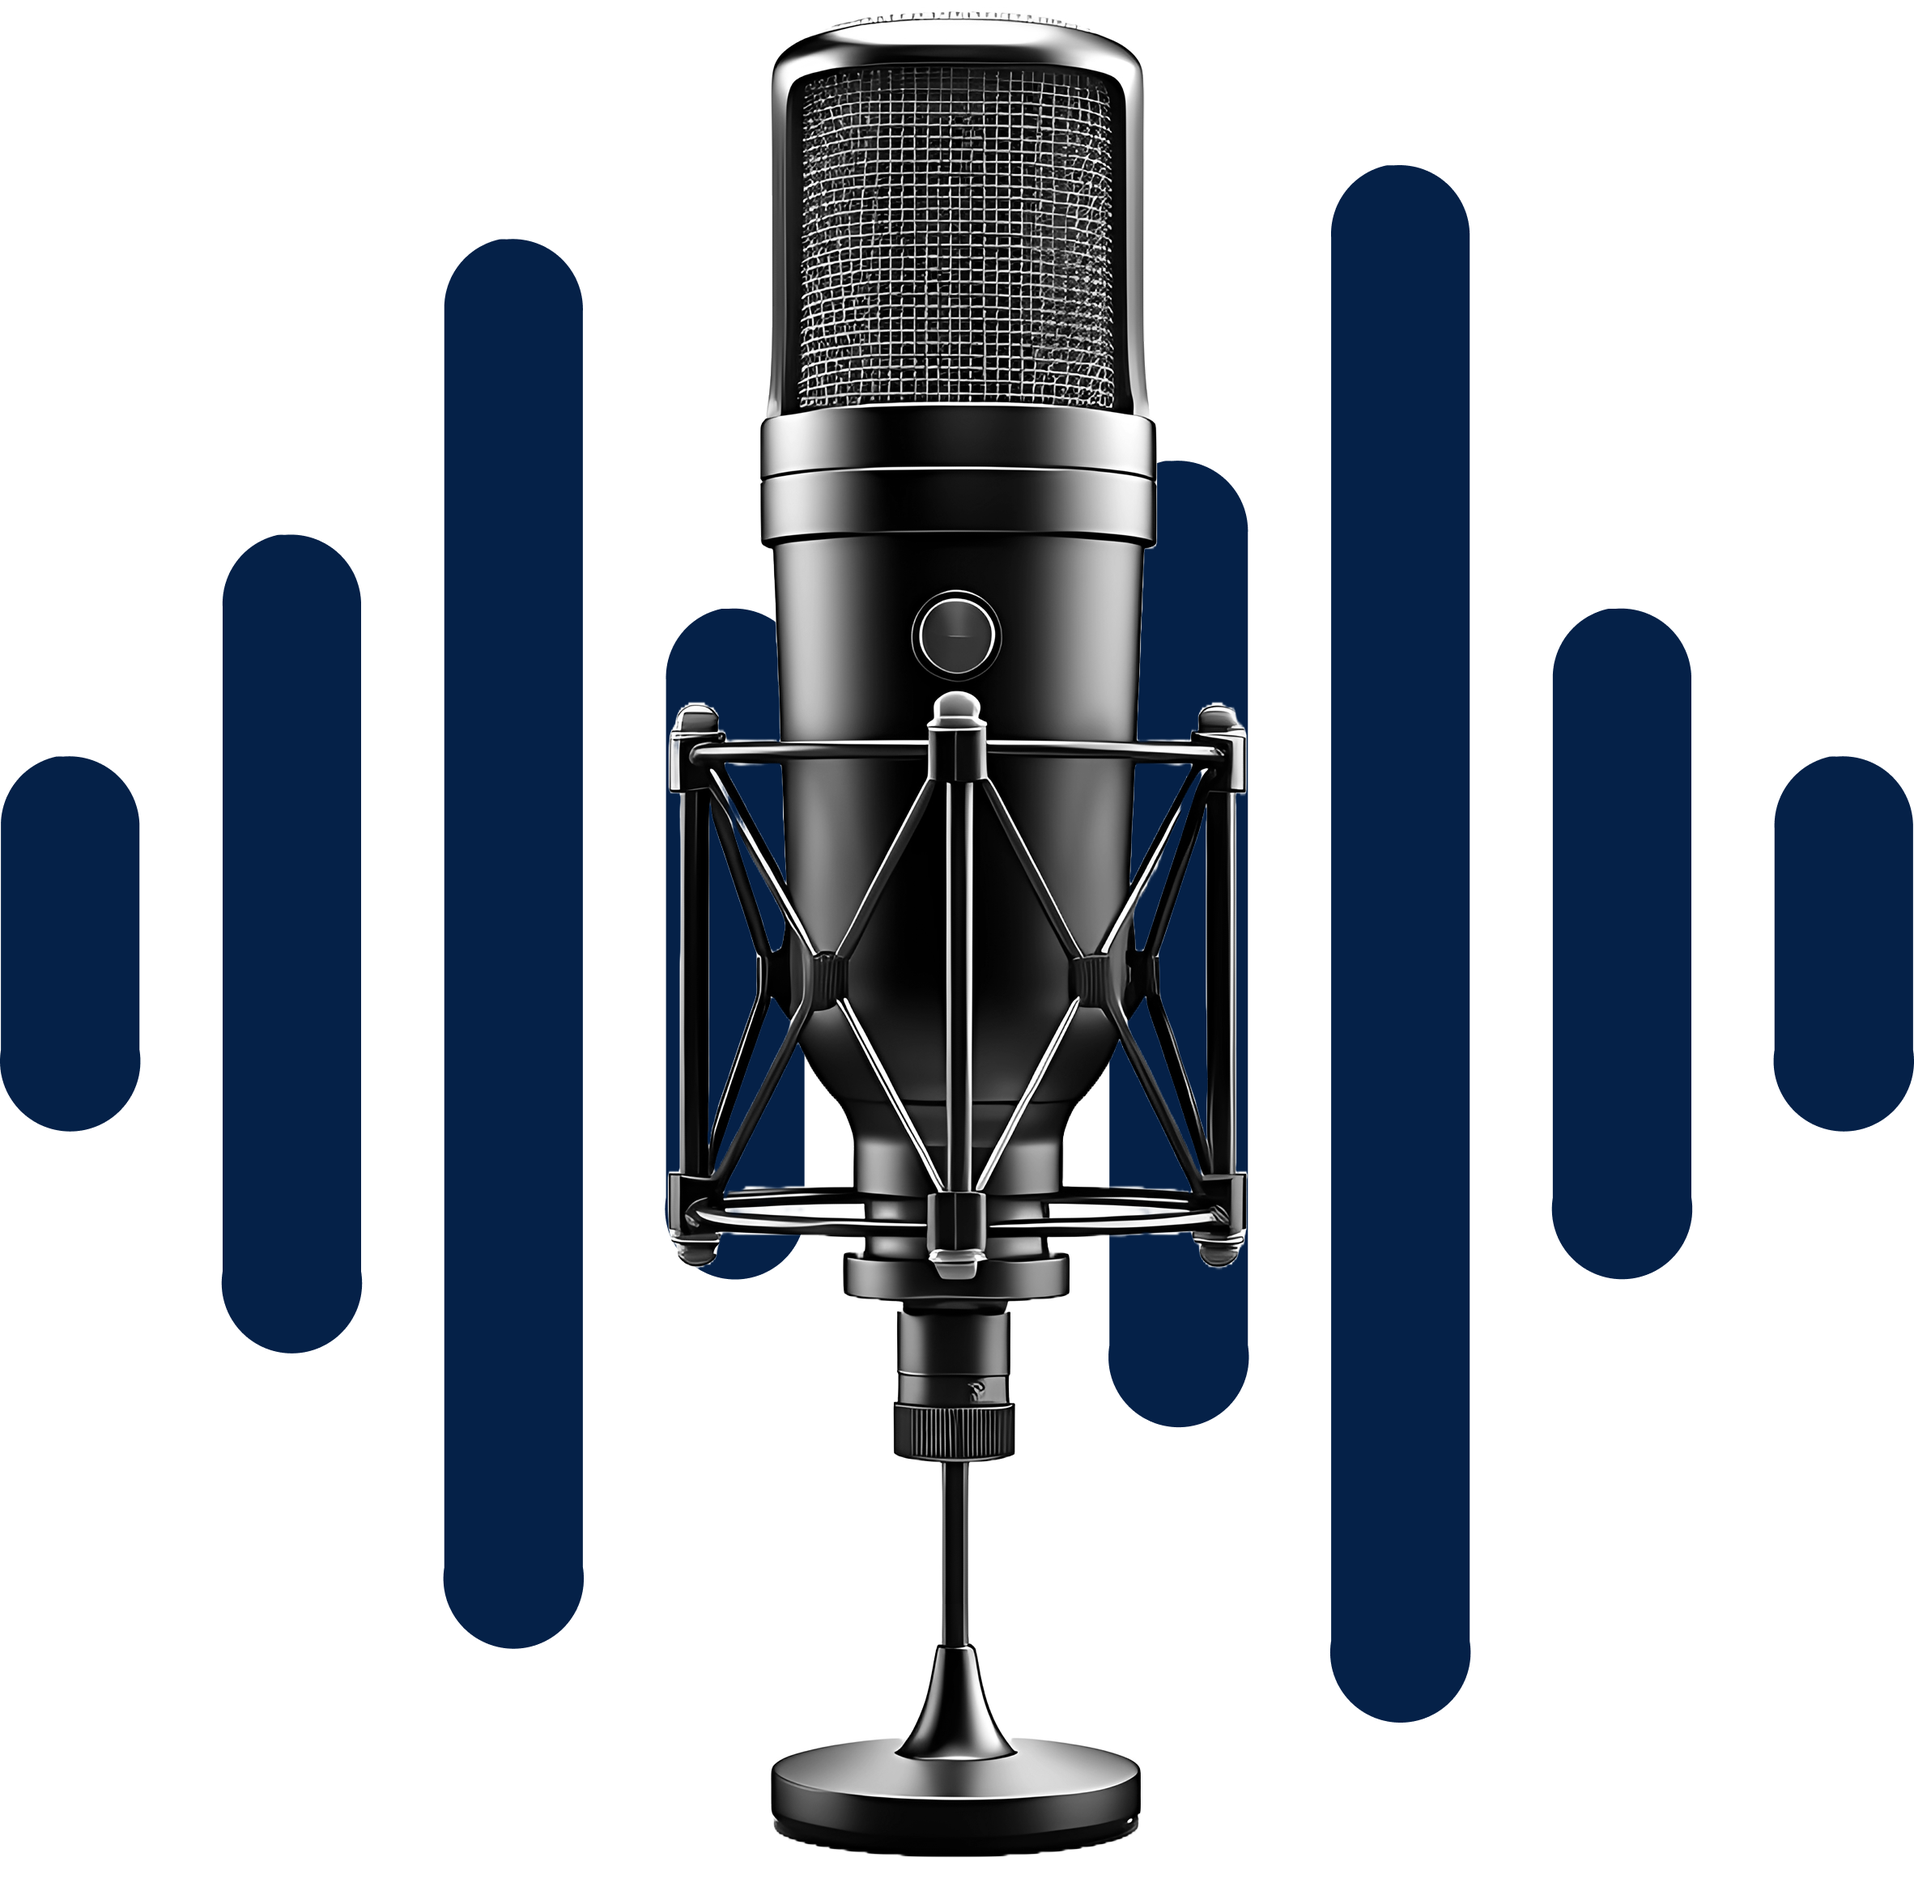
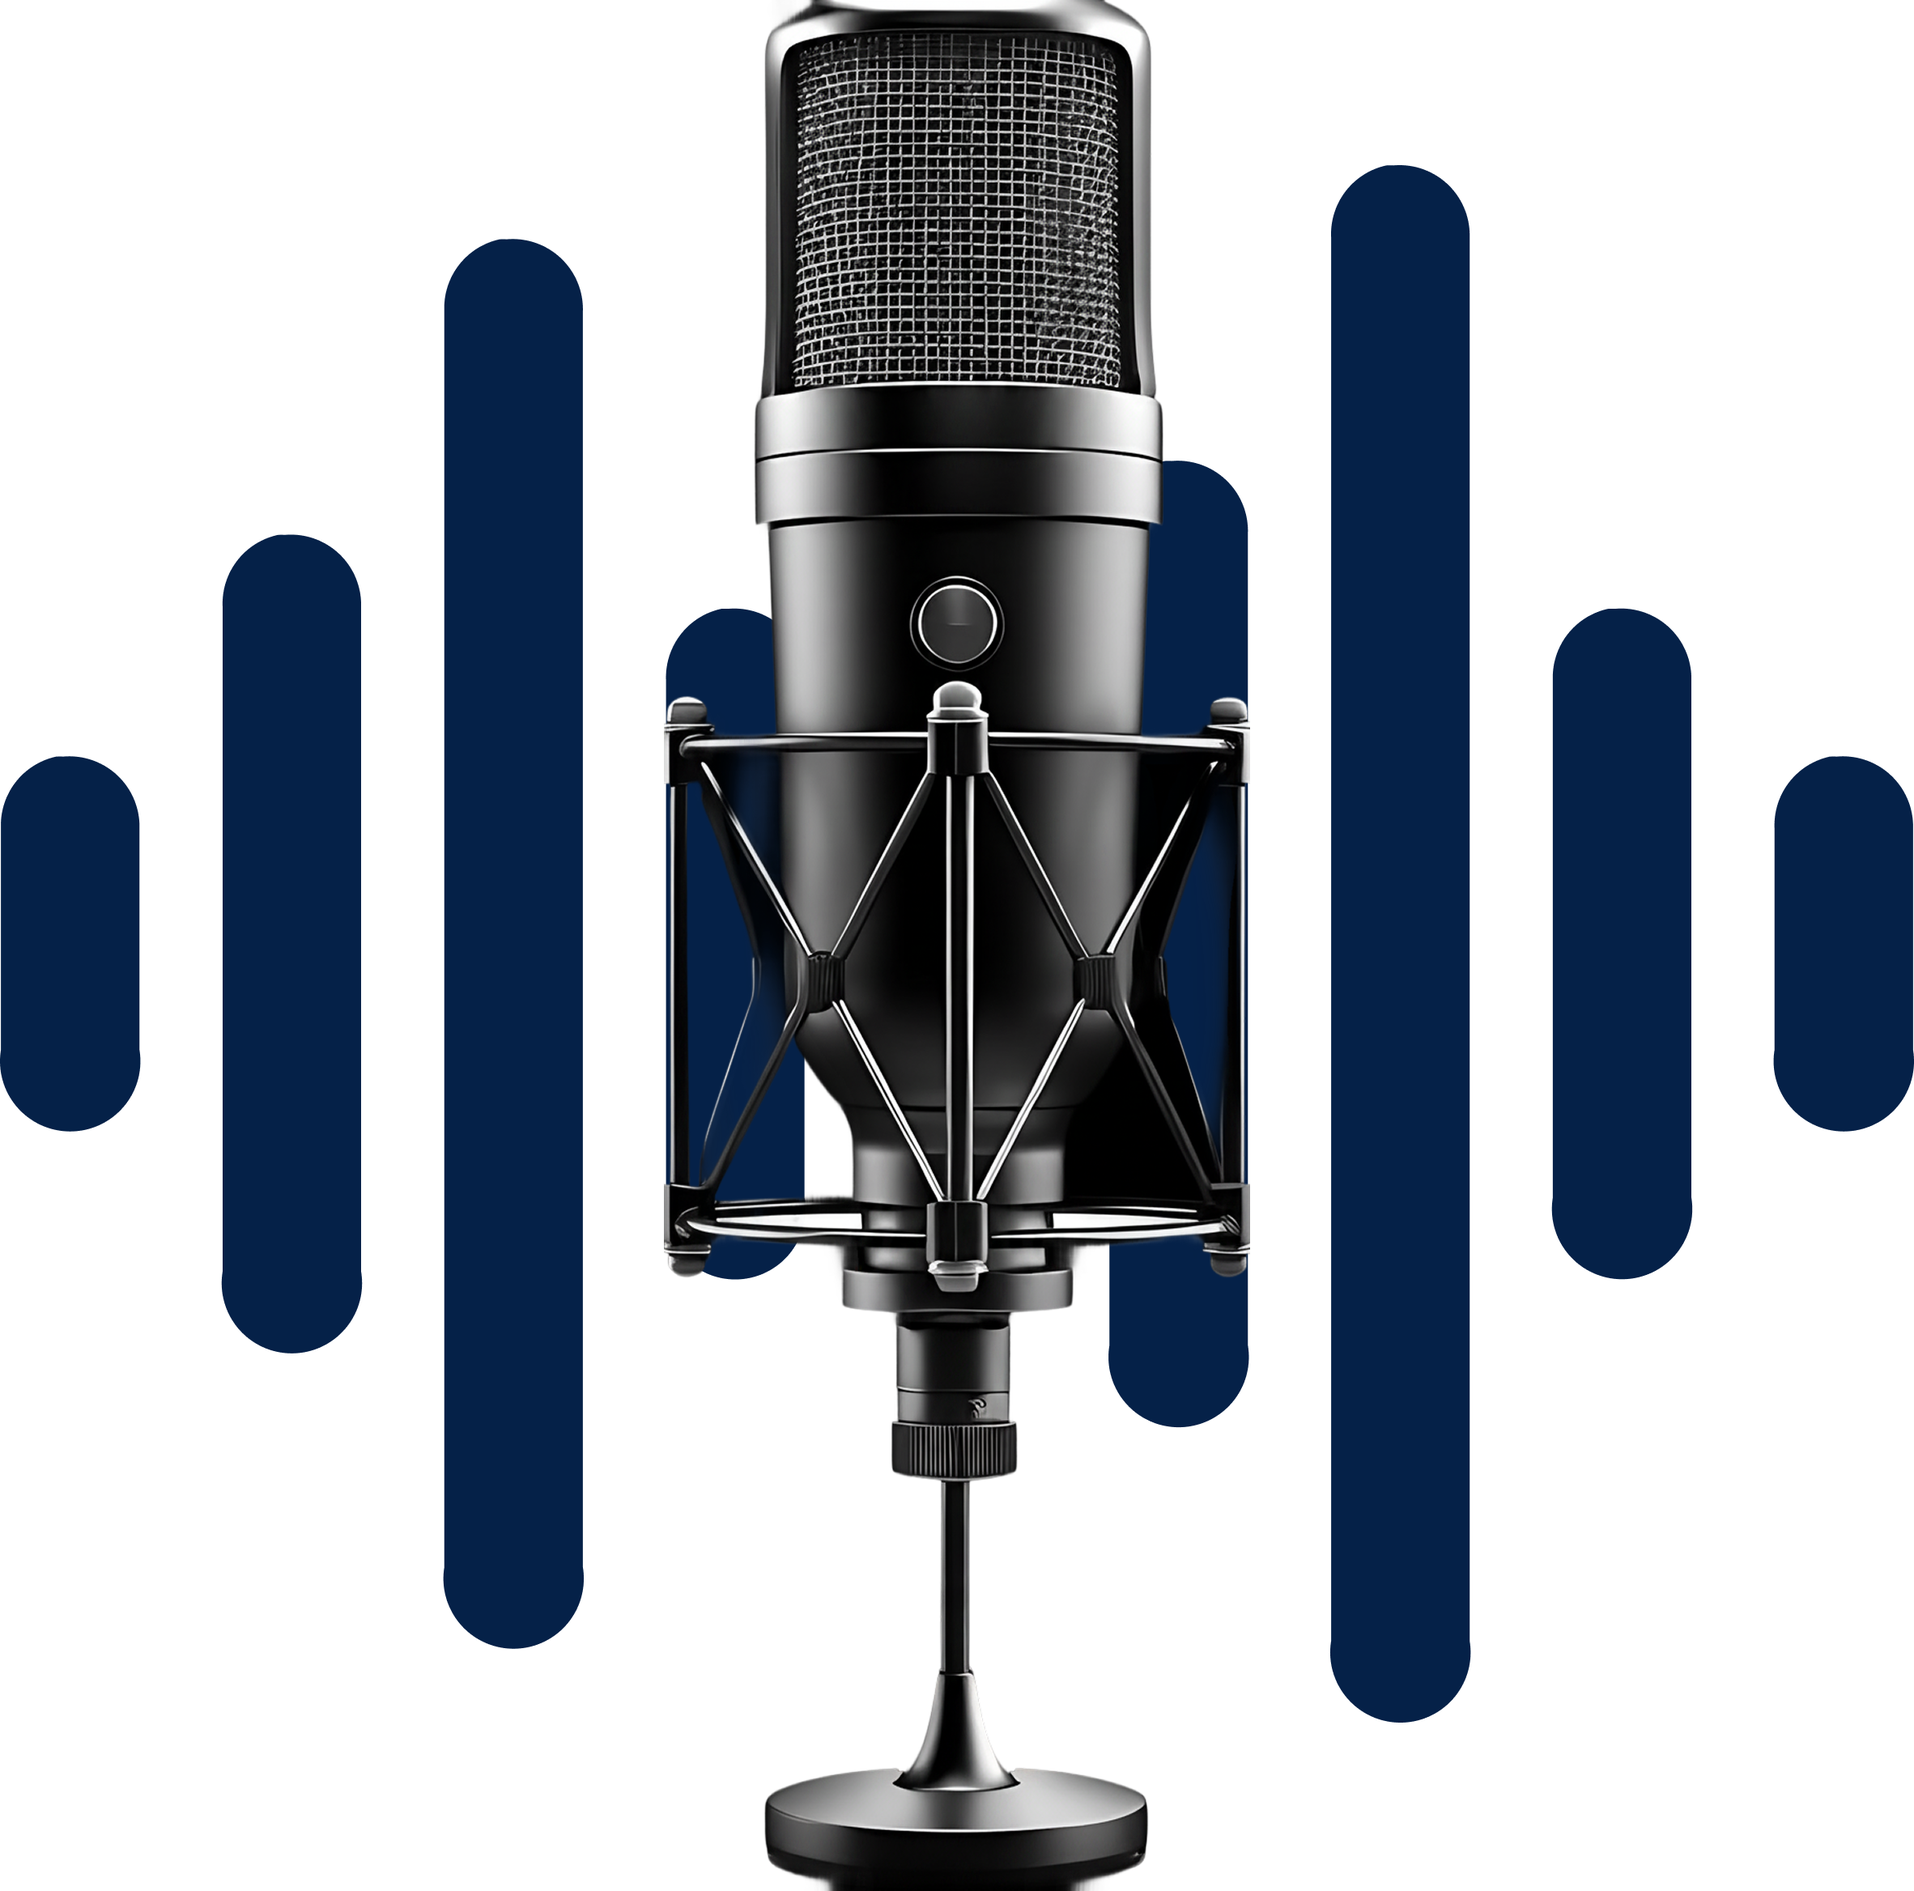
Responsive de la page du balado terminé

Changed region(s): [[0.3397, 0.0, 0.6794, 0.8125], [0.4014, 0.875, 0.6176, 1.0]]

diff --git a/css/components.css b/css/components.css
@@ -54,9 +54,11 @@ Contient les styles propres à la page Équipe, Articles, Podcast et Contact (eq
 .vector-background-bottom { position: absolute; bottom: 0; left: 0; width: 100%; height: auto; z-index: -1; }
 
 /* ── Balado ──────────────────────────────────────────────── */
-.micro, .plateformes, .citation, .podcast-container, .image-and-infos img {
+.micro, .plateformes, .citation, .podcast-container, .podcast-card-img {
     border-radius: var(--radius-box); border: var(--bleu-original) 2px solid;
 }
+
+.titre-balado { width: 100%; }
 
 .micro { background: var(--grad-bleu); }
 .micro img { width: 520px; height: 100%; object-fit: scale-down; }
@@ -71,12 +73,26 @@ Contient les styles propres à la page Équipe, Articles, Podcast et Contact (eq
 .deco-balado { flex-direction: row; align-items: stretch; gap: 20px; }
 
 .podcast-episode  { width: 100%; }
-.podcast-container { display: flex; flex-direction: row; padding: 10px; background: var(--bleu-pale); margin-top: 20px; border-radius: var(--radius-box); }
+.podcast-container { display: flex; flex-direction: row; background: var(--bleu-pale); margin-top: 20px; border-radius: var(--radius-box); padding: 10px; }
 
 .image-and-infos { display: flex; flex-direction: row; gap: 20px; width: 100%; }
-.image-and-infos img { width: 460px; height: auto; object-fit: cover; flex-shrink: 0; }
+
 .image-and-infos h1 { font-size: 40px; }
-.episode-img-wrapper { position: relative; flex-shrink: 0; }
+
+.podcast-card-img {
+    object-fit: cover;
+    flex-shrink: 0;
+    width: 100%;
+    max-width: 460px;
+    align-self: stretch;
+    display: block;
+}
+
+.episode-img-wrapper {
+    position: relative;
+    width: 460px;
+    flex-shrink: 0;
+}
 
 .episode-badge {
     position: absolute; top: 15px; left: 15px;
@@ -87,7 +103,7 @@ Contient les styles propres à la page Équipe, Articles, Podcast et Contact (eq
 
 .podcast-infos  { display: flex; flex-direction: column; justify-content: space-between; flex: 1; min-width: 0; }
 .podcast-details { display: flex; flex-direction: column; align-items: stretch; justify-content: center; gap: 25px; }
-.podcast-text   { display: flex; align-items: center; gap: 10px; font-family: Lato, sans-serif; font-weight: 500; font-size: 20px; color: var(--bleu-original); min-width: 0; overflow: hidden; white-space: nowrap; text-overflow: ellipsis; }
+.podcast-text   { display: flex; align-items: center; gap: 10px; font-family: Lato, sans-serif; font-weight: 500; font-size: 20px; color: var(--bleu-original); min-width: 0; overflow: hidden; text-overflow: ellipsis; }
 
 .podcast-audio  { display: flex; flex-direction: row; justify-content: center; align-items: center; gap: 20px; }
 .podcast-time   { font-family: Lato, sans-serif; font-size: 15px; color: var(--bleu-original); white-space: nowrap; flex-shrink: 0; }
@@ -96,8 +112,26 @@ Contient les styles propres à la page Équipe, Articles, Podcast et Contact (eq
 .audio-progress { position: absolute; top: 0; left: 0; height: 100%; border-radius: 80px; background: var(--grad-bleu); width: 0%; pointer-events: none; }
 
 .volume-control { display: flex; align-items: center; gap: 8px; flex-shrink: 0; }
-.volume-slider  { -webkit-appearance: none; width: 70px; height: 4px; border-radius: 4px; background: #c8dff0; outline: none; cursor: pointer; }
-.volume-slider::-webkit-slider-thumb { -webkit-appearance: none; width: 14px; height: 14px; border-radius: 50%; background: var(--bleu-original); cursor: pointer; }
+
+.volume-slider {
+    -webkit-appearance: none;
+    width: 0; height: 6px;
+    border-radius: 4px;
+    background: var(--bleu-pale2);
+    outline: none; cursor: pointer;
+    overflow: hidden; opacity: 0;
+    transition: width 0.25s ease, opacity 0.25s ease;
+}
+.volume-slider::-webkit-slider-thumb {
+    -webkit-appearance: none;
+    width: 14px; height: 14px;
+    border-radius: 50%;
+    background: var(--bleu-original);
+    cursor: pointer;
+    box-shadow: -70px 0 0 66px var(--bleu-original);
+}
+.volume-control:hover .volume-slider,
+.volume-control:focus-within .volume-slider { width: 70px; opacity: 1; }
 
 .play-btn, .volume-btn, .download-btn { cursor: pointer; flex-shrink: 0; }
 .play-btn circle    { transition: fill 0.2s; }
@@ -110,6 +144,19 @@ Contient les styles propres à la page Équipe, Articles, Podcast et Contact (eq
     .vector-art { width: 300px; height: auto; }
     .micro img  { width: 400px; }
     .citation   { padding: 30px 50px; }
+
+    .image-and-infos { flex-direction: column; }
+    .podcast-card-img {
+        max-width: 100%;
+        flex-shrink: 1;
+        height: 400px;
+    }
+
+    .episode-img-wrapper{
+        width: 99%;
+    }
+
+    .podcast-details { margin-top: 20px; margin-bottom: 20px; }
 }
 
 @media (max-width: 1024px) {
@@ -130,6 +177,8 @@ Contient les styles propres à la page Équipe, Articles, Podcast et Contact (eq
     .micro img    { height: 260px; }
     .citation     { padding: 25px 30px; }
     .citation p   { font-size: 20px; }
+    .plateformes-apps svg { width: auto; height: 40px; }
+    .plateformes-apps {gap: 15px;}
 }
 
 @media (max-width: 480px) {

diff --git a/podcast.html b/podcast.html
@@ -99,18 +99,22 @@
     <main>
         <section class="menu-section menu-left">
             <img src="Images/Background/BackgroundGradient.svg" alt="Arrière-plan de l'accueil du journal L'Uqamicus Populi" class="main-background">
-            <div class="section-title">
-                <h1>Le Balado Populi</h1>
-                <h2>Le droit par ceux qui l'apprennent, pour ceux qui veulent comprendre. <br>
-                    Le Balado Populi donne voix aux idées, aux débats et aux enjeux qui façonnent notre société.</h2>
+            <div class="titre-balado">
+                <div class="section-title">
+                    <h1>Le Balado Populi</h1>
+                    <h2>Le droit par ceux qui l'apprennent, pour ceux qui veulent comprendre. <br>
+                        Le Balado Populi donne voix aux idées, aux débats et aux enjeux qui façonnent notre société.</h2>
+                </div>
                     <div class="plateformes">
                         <h1>Écoutez-nous sur vos plateformes préférées</h1>
                         <div class="plateformes-apps">
-                            <svg xmlns="http://www.w3.org/2000/svg" width="68" height="68" viewBox="0 0 68 68" fill="none">
+                            <!-- Spotify -->
+                            <svg xmlns="http://www.w3.org/2000/svg" width="68" height="68" viewBox="0 0 68 68" fill="none" class="spotify">
                                 <path fill-rule="evenodd" clip-rule="evenodd" d="M34 68C15.2223 68 0 52.7777 0 34C0 15.2223 15.2223 0 34 0C52.7777 0 68 15.2223 68 34C68 52.7777 52.7777 68 34 68ZM36.4716 17.5615C29.71 16.9352 22.5227 17.8928 16.1529 20.7169C14.627 21.3933 13.9383 23.1788 14.6149 24.7046C15.2914 26.2305 17.0768 26.9191 18.6027 26.2426C23.9247 23.883 30.0611 23.0379 35.914 23.5801C41.804 24.1258 47.4844 26.0842 51.8018 29.4052C53.1248 30.4227 55.0223 30.1752 56.04 28.8522C57.0576 27.5293 56.8101 25.6318 55.4871 24.614C50.0883 20.4614 43.256 18.1898 36.4716 17.5615ZM18.0824 32.6373C23.3347 30.1503 29.3063 29.3047 34.9029 29.8325C40.3763 30.3487 45.911 32.2219 50.2874 35.6705C51.5984 36.7037 51.8237 38.6039 50.7906 39.9149C49.7574 41.2258 47.8572 41.4511 46.5462 40.4181C43.2563 37.8255 38.8912 36.28 34.3353 35.8502C29.6906 35.4121 24.8271 36.1314 20.6693 38.1003C19.1607 38.8146 17.3587 38.1708 16.6444 36.6623C15.9301 35.1537 16.5739 33.3517 18.0824 32.6373ZM33.3389 42.1718C29.2077 41.77 24.7987 42.3865 20.8781 44.2263C19.3672 44.9353 18.7169 46.735 19.4259 48.246C20.1351 49.7571 21.9348 50.4072 23.4458 49.6982C26.2815 48.3675 29.5854 47.8797 32.7536 48.1878C35.9477 48.4985 38.9749 49.6152 41.2317 51.453C42.5261 52.5069 44.4297 52.3121 45.4835 51.0178C46.5375 49.7234 46.3426 47.8199 45.0483 46.7659C41.7036 44.0424 37.4863 42.5751 33.3389 42.1718Z" fill="#00345C"/>
                             </svg>
 
-                            <a href="https://www.choq.ca/balados/balado-populi" target="_blank">
+                            <!-- CHOQ.ca -->
+                            <a href="https://www.choq.ca/balados/balado-populi" target="_blank" class="">
                                 <svg xmlns="http://www.w3.org/2000/svg" width="355" height="68" viewBox="0 0 355 68" fill="none">
                                     <path d="M33.6465 0C44.3955 6.55918e-05 53.9673 5.04028 60.127 12.8867C60.2324 13.2211 60.1239 13.566 60.082 13.7334C57.1637 16.7089 51.2246 22.7628 50.8125 23.1748C50.479 23.5083 50.0489 23.3375 49.7754 23.1396C46.3734 17.8904 40.4973 14.4209 33.8174 14.4209C23.2939 14.421 14.7627 23.0292 14.7627 33.6475C14.7627 44.2658 23.2939 52.8739 33.8174 52.874C40.6212 52.874 46.5909 49.2747 49.9619 43.8613C50.2128 43.7915 50.4906 43.8703 50.6406 43.9453C53.6733 46.8064 59.8074 52.6665 60.082 53.2158C60.2922 53.6362 60.2802 54.016 60.1865 54.3252C54.0292 62.2163 44.4312 67.2919 33.6465 67.292C15.0643 67.292 0 52.2277 0 33.6455C9.77606e-05 15.0634 15.0644 0 33.6465 0Z" fill="#00345C"/>
                                     <path d="M84.4579 26.4377H109.864V1.3752H124.628V65.9211H109.864V39.8283H84.4579V65.9211H69.6952V1.3752H84.4579V26.4377Z" fill="#00345C"/>
@@ -197,10 +201,11 @@
                     <h1>Découvrez nos épisodes</h1>
                     <h2>Des conversations avec des étudiants, des professeurs, des juristes et des professionnels engagés.</h2>
                 </div>
+                <!-- Épisode 1 -->
                 <div class="podcast-container">
                     <div class="image-and-infos">
                         <div class="episode-img-wrapper">
-                            <img src="Images/Podcast/Episode1.png" alt="Une statue aveugle tenant une balance">
+                            <img src="Images/Podcast/PodcastEp1.png" alt="Une statue aveugle tenant une balance" class="podcast-card-img">
                             <span class="episode-badge">EP 1</span>
                         </div>
 
@@ -316,6 +321,7 @@
                         </div>
                     </div>
                 </div>
+                
             </div>
         </section>
 
